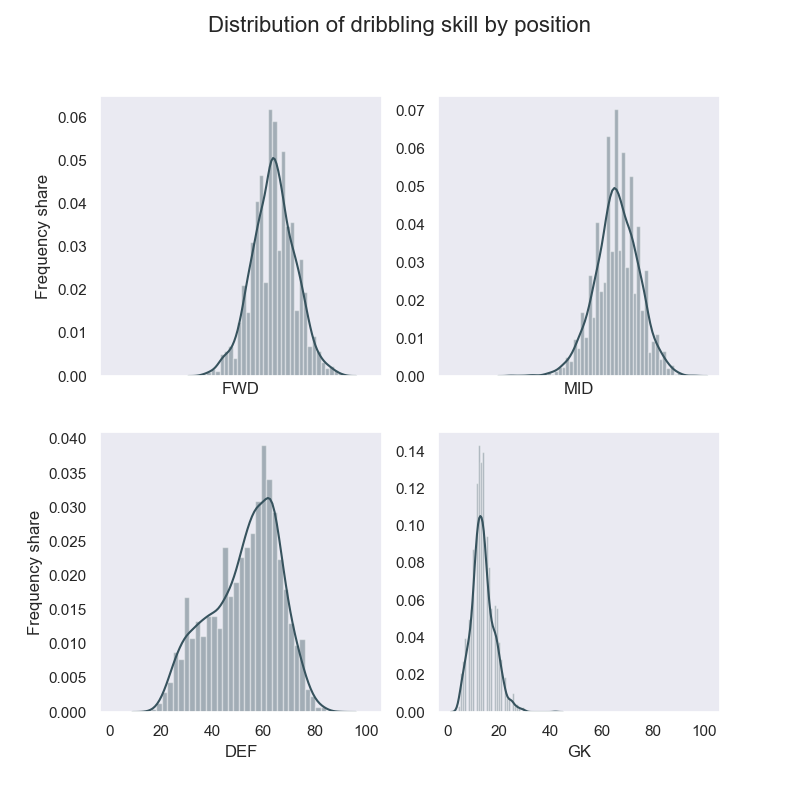
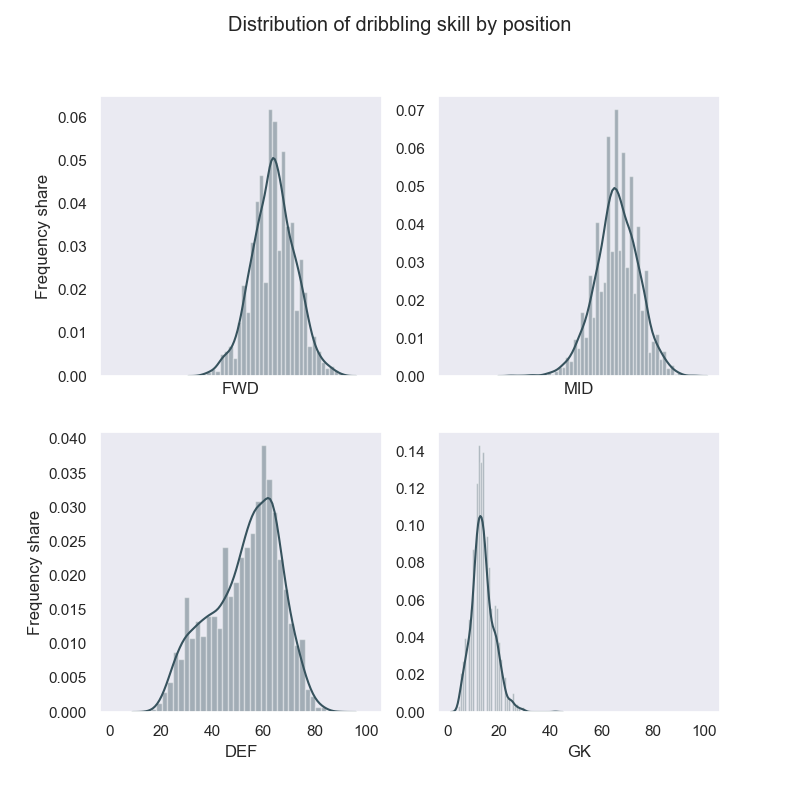
Position charts

Changed region(s): [[0.25, 0.0, 0.7188, 0.0625]]

diff --git a/logistic.py b/logistic.py
@@ -81,7 +81,7 @@ plt.clf()
 
 # Distribution of skill rating by position
 f, axes = plt.subplots(2, 2, figsize=(8, 8), sharex=True)
-f.suptitle('Distribution of dribbling skill by position', fontsize=16)
+f.suptitle('Distribution of dribbling skill by position')
 sns.set(style="dark", palette="GnBu_d", color_codes=True)
 sns.distplot(df['skill_dribbling'][df['position'] == 'FWD'], ax=axes[0, 0])
 axes[0][0].set(xlabel='FWD', ylabel='Frequency share')
